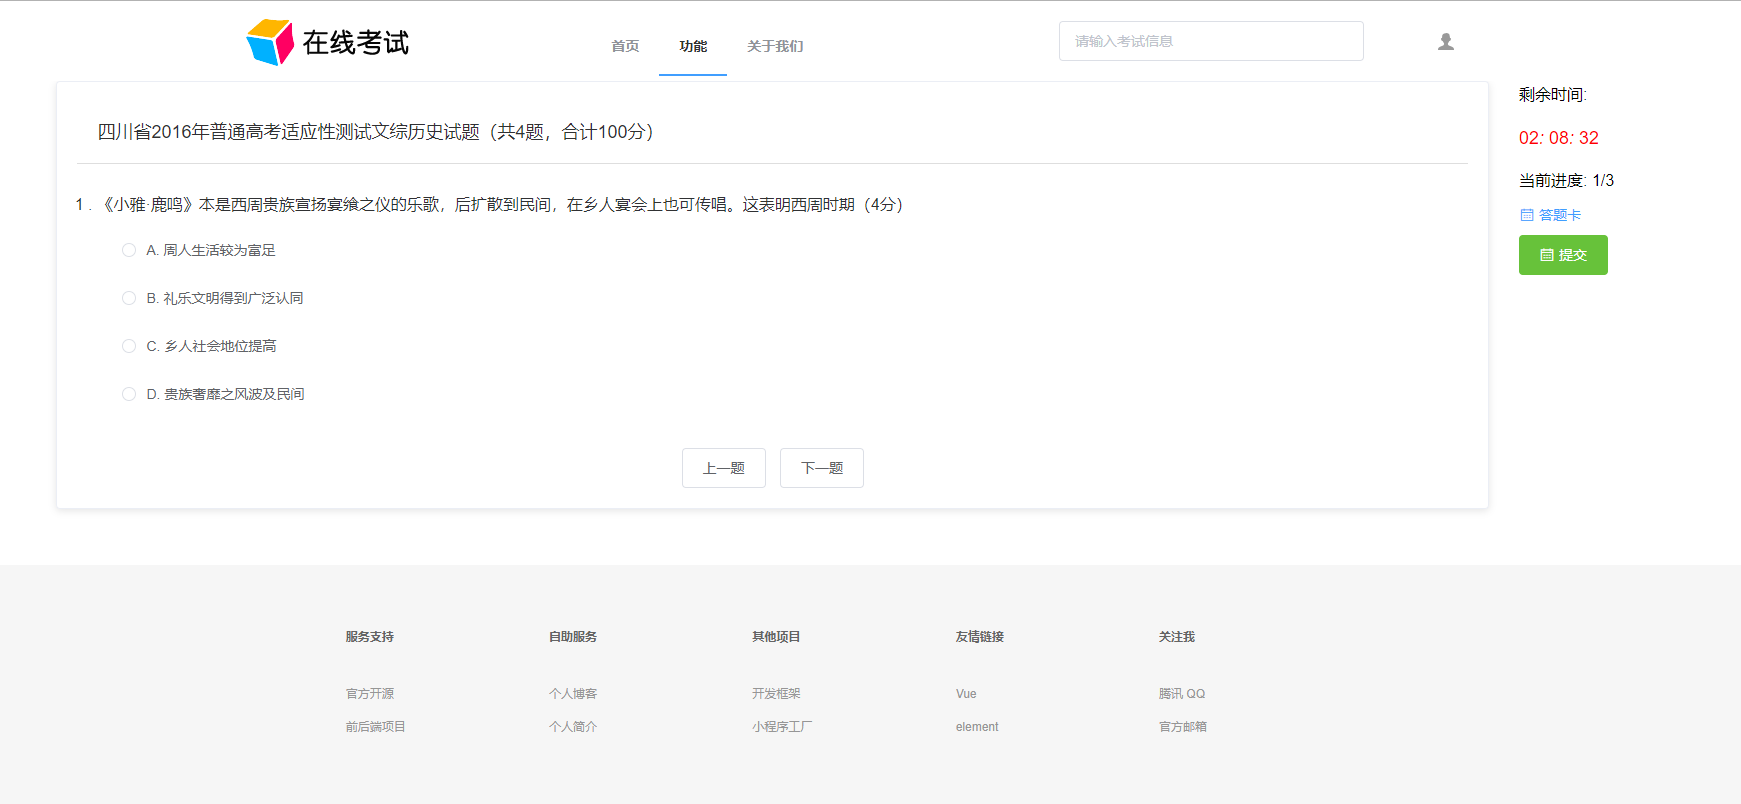
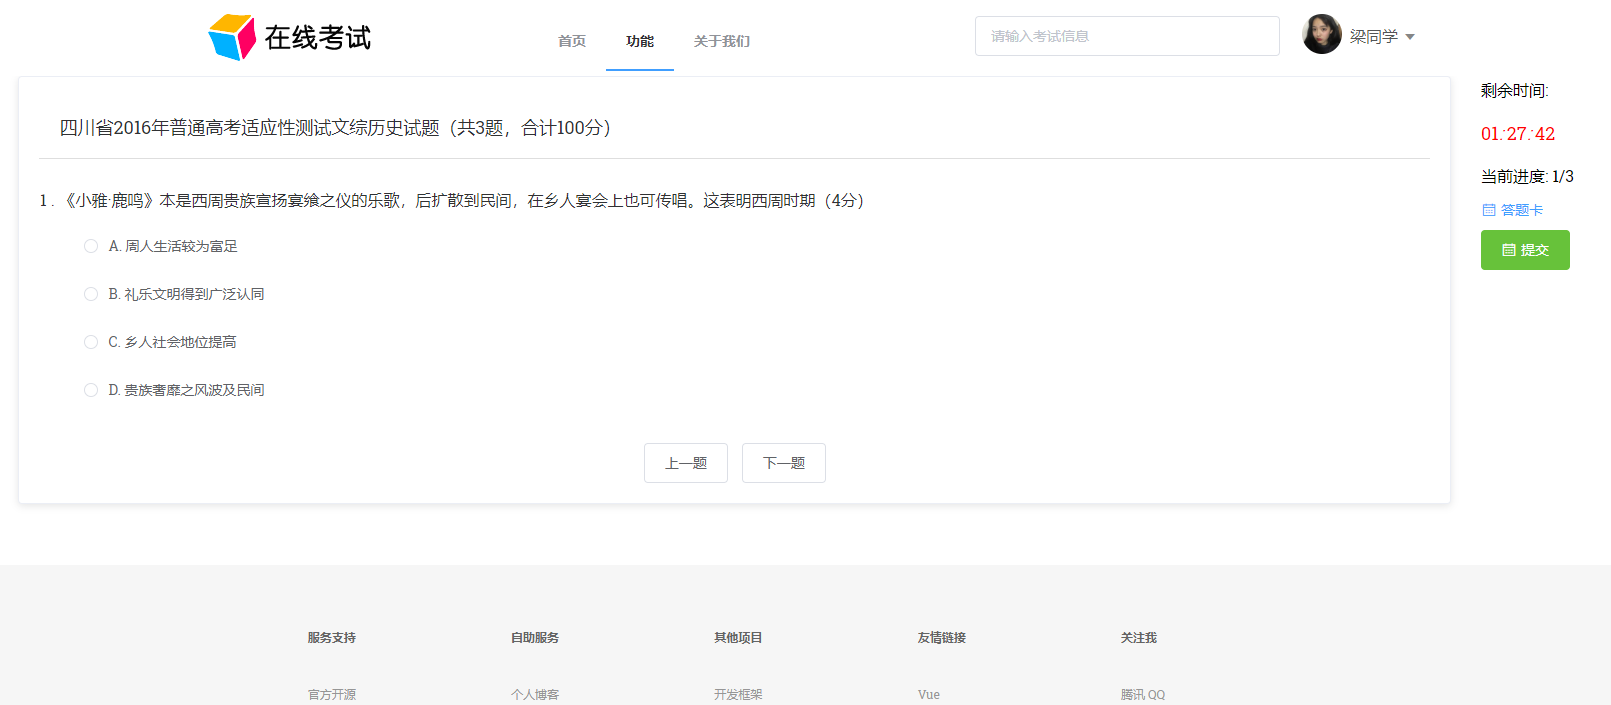
修复bug、优化

diff --git a/src/store/modules/user.js b/src/store/modules/user.js
@@ -1,7 +1,7 @@
 import {loginByUsername, registerByUsername, logout, getUserInfo} from '@/api/admin/login'
 import {setToken, removeToken} from '@/utils/auth'
 import {setStore, getStore} from '@/utils/store'
-import {encryption, getAttachmentPreviewUrl} from '@/utils/util'
+import {encryption, getAttachmentPreviewUrl, isNotEmpty} from '@/utils/util'
 
 const user = {
   state: {
@@ -63,12 +63,13 @@ const user = {
       return new Promise((resolve, reject) => {
         getUserInfo(state.token).then(response => {
           const data = response.data.data
-          if (data.user.avatarId === null) {
-            data.user.avatarUrl = data.user.avatar
+          // 获取系统配置
+          const sysConfig = getStore({ name: 'sys_config' })
+          if (!isNotEmpty(data.user.avatarId)) {
+            // 采用默认头像
+            data.user.avatarUrl = sysConfig.defaultAvatar
           } else {
-            // 获取附件配置
-            const attachmentConfig = getStore({ name: 'attachment_config' })
-            data.user.avatarUrl = getAttachmentPreviewUrl(attachmentConfig, data.user.avatar)
+            data.user.avatarUrl = getAttachmentPreviewUrl(sysConfig, data.user.avatar)
           }
           commit('SET_ROLES', data.roles)
           commit('SET_USER_INFO', data.user)
@@ -91,7 +92,7 @@ const user = {
           commit('SET_REFRESH_TOKEN', '')
           commit('SET_ROLES', [])
           // 清除附件配置信息
-          commit('SET_ATTACHMENT_CONFIG', {})
+          commit('SET_SYS_CONFIG', {})
           removeToken()
           resolve()
         }).catch(error => {
@@ -110,7 +111,7 @@ const user = {
         commit('SET_REFRESH_TOKEN', '')
         commit('SET_ROLES', [])
         // 清除附件配置信息
-        commit('SET_ATTACHMENT_CONFIG', {})
+        commit('SET_SYS_CONFIG', {})
         removeToken()
         resolve()
       })

diff --git a/src/views/exam/practices.vue b/src/views/exam/practices.vue
@@ -10,7 +10,7 @@
         <el-col :offset="8">
           <div class="practice">
             <a href="javascript:void(0);" class="practice-title">
-              <img :src="getAvatar(practice.avatar)" v-if="isNotEmpty(practice.avatar)" class="practice-image">
+              <img :src="getAvatar(practice.avatar)" v-if="practice.avatar" class="practice-image">
               <img src="../../../static/images/practices/practice.png" v-else class="practice-image">
               <p>
                 <span class="practice-name">{{practice.examinationName}}</span>
@@ -38,7 +38,7 @@
 <script>
 import { mapState } from 'vuex'
 import { fetchList } from '@/api/exam/exam'
-import { getDownloadUrl, isNotEmpty } from '@/utils/util'
+import { isNotEmpty, getAttachmentPreviewUrl } from '@/utils/util'
 import store from '@/store'
 
 export default {
@@ -59,7 +59,8 @@ export default {
   computed: {
     // 获取用户信息
     ...mapState({
-      userInfo: state => state.user.userInfo
+      userInfo: state => state.user.userInfo,
+      sysConfig: state => state.sysConfig.sysConfig
     })
   },
   created () {
@@ -78,8 +79,8 @@ export default {
     getExamList (practice) {
       this.$router.push({name: 'exams', query: {practiceId: practice.id}})
     },
-    getAvatar (attachmentId) {
-      return getDownloadUrl(attachmentId)
+    getAvatar (avatar) {
+      return getAttachmentPreviewUrl(this.sysConfig, avatar)
     },
     // 开始练习
     startPractice (practice) {

diff --git a/src/views/exam/exams.vue b/src/views/exam/exams.vue
@@ -8,7 +8,7 @@
     <el-row :gutter="100" v-loading="listLoading">
       <el-col :span="6" v-for="(exam, index) in examList" :key="exam.id" :offset="(index === 0 || index % 3 === 0) ? 2 : 0">
         <el-card :body-style="{ padding: '12px' }">
-          <img :src="getAvatar(exam.avatar)" v-if="isNotEmpty(exam.avatar)" class="exam-image">
+          <img :src="getAvatar(exam.avatar)" v-if="exam.avatar" class="exam-image">
           <img src="../../../static/images/home/icon_function3.jpg" v-else class="exam-image">
           <div style="padding: 14px;">
             <span>{{ exam.examinationName }}</span>
@@ -28,7 +28,7 @@
 <script>
 import { mapState } from 'vuex'
 import { fetchList } from '@/api/exam/exam'
-import { getDownloadUrl, isNotEmpty } from '@/utils/util'
+import { isNotEmpty, getAttachmentPreviewUrl } from '@/utils/util'
 import store from '@/store'
 import moment from 'moment'
 
@@ -52,7 +52,8 @@ export default {
     // 获取用户信息
     ...mapState({
       userInfo: state => state.user.userInfo,
-      course: state => state.course.course
+      course: state => state.course.course,
+      sysConfig: state => state.sysConfig.sysConfig
     })
   },
   created () {
@@ -124,8 +125,8 @@ export default {
         })
       }
     },
-    getAvatar (attachmentId) {
-      return getDownloadUrl(attachmentId)
+    getAvatar (avatar) {
+      return getAttachmentPreviewUrl(this.sysConfig, avatar)
     }
   }
 }

diff --git a/src/store/modules/sysConfig.js b/src/store/modules/sysConfig.js
@@ -1,0 +1,36 @@
+import { setStore, getStore } from '@/utils/store'
+import { getSysConfig } from '@/api/admin/sys'
+
+const sysConfig = {
+  state: {
+    sysConfig: getStore({
+      name: 'sys_config'
+    }) || {}
+  },
+  actions: {
+    // 获取系统配置
+    GetSysConfig({ commit }) {
+      return new Promise((resolve, reject) => {
+        getSysConfig().then(response => {
+          const data = response.data.data
+          commit('SET_SYS_CONFIG', data)
+          resolve()
+        }).catch(error => {
+          reject(error)
+        })
+      })
+    }
+  },
+  mutations: {
+    SET_SYS_CONFIG: (state, sysConfig) => {
+      state.sysConfig = sysConfig
+      setStore({
+        name: 'sys_config',
+        content: state.sysConfig,
+        type: 'session'
+      })
+    }
+  }
+}
+export default sysConfig
+

diff --git a/src/permission.js b/src/permission.js
@@ -16,9 +16,9 @@ router.beforeEach((to, from, next) => {
       next({ path: '/' })
     } else {
       if (store.getters.roles.length === 0) { // 判断当前用户是否已拉取完user_info信息
-        // 获取附件配置信息
-        if (store.getters.attachmentConfig.host === undefined) {
-          store.dispatch('GetAttachmentConfig').then(res => {
+        // 获取系统配置信息
+        if (store.getters.sysConfig.fdfsHttpHost === undefined) {
+          store.dispatch('GetSysConfig').then(res => {
             store.dispatch('GetUserInfo').then(res => { // 拉取user_info
               next({ ...to, replace: true }) // hack方法 确保addRoutes已完成
             }).catch((err) => {

diff --git a/src/utils/util.js b/src/utils/util.js
@@ -115,14 +115,14 @@ export const getDownloadUrl = (attachmentId) => {
 
 /**
  * 返回附件的预览地址
- * @param attachmentConfig
+ * @param sysConfig
  * @param fastFileId
  * @returns {string}
  */
-export const getAttachmentPreviewUrl = function(attachmentConfig, fastFileId) {
+export const getAttachmentPreviewUrl = function(sysConfig, fastFileId) {
   let url = ''
-  if (isNotEmpty(attachmentConfig.host)) {
-    url = attachmentConfig.host + '/' + fastFileId
+  if (isNotEmpty(sysConfig.fdfsHttpHost)) {
+    url = sysConfig.fdfsHttpHost + '/' + fastFileId
   }
   return url
 }

diff --git a/src/store/index.js b/src/store/index.js
@@ -16,7 +16,7 @@ import practice from './modules/practice'
 // getters
 import getters from './getters'
 
-import attachment from './modules/attachment'
+import sysConfig from './modules/sysConfig'
 
 Vue.use(Vuex)
 
@@ -26,7 +26,7 @@ const store = new Vuex.Store({
     exam,
     practice,
     course,
-    attachment
+    sysConfig
   },
   getters
 })

diff --git a/src/views/common/header.vue b/src/views/common/header.vue
@@ -44,7 +44,7 @@
             </div>
             <div class="username" v-if="login">
               <a href="javascript:void(-1);">
-                {{userInfo.username}}
+                {{userInfo.name}}
               </a>
               <i class="el-icon-caret-bottom"></i>
               <div class="nav-user-wrapper">

diff --git a/src/store/getters.js b/src/store/getters.js
@@ -21,6 +21,6 @@ const getters = {
   practice: state => state.practice.practice,
   practiceRecord: state => state.practice.practiceRecord,
   course: state => state.course.course,
-  attachmentConfig: state => state.attachment.attachmentConfig
+  sysConfig: state => state.sysConfig.sysConfig
 }
 export default getters

diff --git a/src/api/admin/sys.js b/src/api/admin/sys.js
@@ -1,0 +1,8 @@
+import request from '@/router/axios'
+
+export function getSysConfig() {
+  return request({
+    url: '/admin/sysConfig',
+    method: 'get'
+  })
+}

diff --git a/README.md b/README.md
@@ -14,6 +14,8 @@
 
 ![image](doc/images/image_web_exam_record.png)
 
+![image](doc/images/image_web_practices.png)
+
 ***
 
 ### 关于
